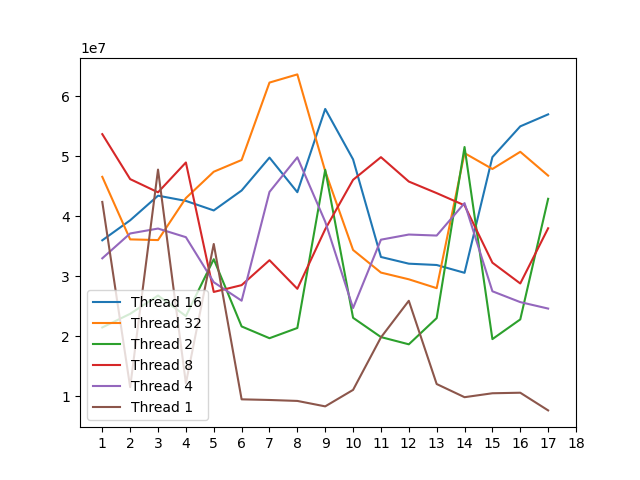
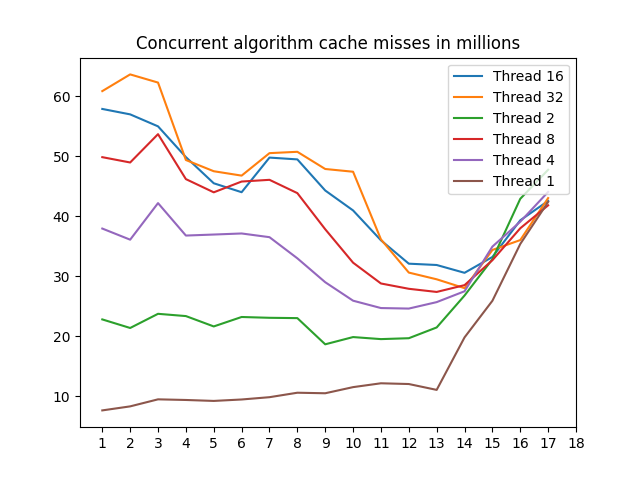
Fix cache misses graph

diff --git a/handin_2/datalogs/main.py b/handin_2/datalogs/main.py
@@ -48,67 +48,51 @@ for d in DIRS:
         if stats[len(stats) - 1].strip() == CACHE_MISSES_ACRO:
             stats = lines_arr[idx + 1].split()
             cache_miss = int(stats[len(stats) - 1].strip())
-            # print(cache_miss)
             data[meta_data].append(cache_miss)
 
     grep_in.close()
 
 x_ticks = HASH_BITS
+DIVIDE_FACTOR = 1_000_000
 
 algo_map = {}
 
 for key, cache_misses in data.items():
-    # print(f"{key}: {np.average(cache_misses)}")
     meta = key.split("-")
     algo = meta[0]
     thread = meta[1]
     hasbit = meta[2]
-    cache_miss_avg = np.average(cache_misses)
+    cache_miss_avg = np.average(cache_misses) / DIVIDE_FACTOR
     my_key = algo + "-" + thread
     if algo_map.get(my_key) is None:
         algo_map[my_key] = []    
-    algo_map[my_key].append(cache_miss_avg)
-
-    # plt.plot(x_ticks, cache_miss)
-    # plt.xticks(x_ticks)
-
-# plt.savefig("here.png")
-    
-
-
-# plot
-my_max = 0
+    algo_map[my_key].append((int(hasbit), cache_miss_avg))
 
 for a_t, h_avg in algo_map.items():
-    try:
-        meta = a_t.split("-")
-        alg = meta[0]
-        thread = meta[1]
-        print(len(h_avg))
-        print(len(x_ticks))
-        # if(len(h_avg) != len(x_ticks)):
-        #     print("skip", a_t)
-        #     continue
-        if alg == "concurrent":
-            print("IS OTSSSS")
-            plt.figure(0)
-        else: 
-            print("sssS")
-            plt.figure(1)
-        plt.plot(x_ticks[:17], h_avg[:17], label=f"Thread {thread}")
-        plt.xticks(x_ticks)
-        plt.legend()
-        my_max = np.max(h_avg)
+    meta = a_t.split("-")
+    alg = meta[0]
+    thread = meta[1]
+    # if(len(h_avg) != len(x_ticks)):
+    #     print("skip", a_t)
+    #     continue
+    if alg == "concurrent":
+        plt.figure(0)
+    else: 
+        plt.figure(1)
+    # sort by hasbit
+    h_avg.sort(key=lambda a: a[0])
+    data = list(map(lambda x: x[1], h_avg))
+    plt.plot(x_ticks[:17], data[:17], label=f"Thread {thread}")
+    plt.xticks(x_ticks)
+    plt.legend()
+    ax = plt.gca()
+    ax.get_xaxis().get_major_formatter().set_useOffset(False)
 
-        # print(f"{a_t}: \nmax: {np.max(h_avg)}, \nmin: {np.min(h_avg)}, \nmid: {np.median(h_avg)}\n\n")
-        # plt.yticks([1_000_000,5_000_000, 10_000_000, 20_000_000, 30_000_000,40_000_000,50_000_000, 100_000_000, 200_000_000])
-        ax = plt.gca()
-        ax.get_xaxis().get_major_formatter().set_useOffset(False)
-    except:
-        pass
 
 plt.figure(0)
-plt.savefig(f"concurrent.png")
+plt.title("Concurrent algorithm cache misses in millions")
+plt.savefig("concurrent.png")
 plt.figure(1)
-plt.savefig(f"parallel.png")
+plt.title("Parallel algorithm cache misses in millions")
+plt.savefig("parallel.png")
     

diff --git a/handin_1/perf/main.py b/handin_1/perf/main.py
@@ -45,7 +45,7 @@ for key, val in stats.items():
     algo = meta[0]
     thread = meta[1]
     name = meta[3]
-    avg = np.mean(val)
+    avg = np.mean(val) 
     new_key = f"{algo}/{thread}/{name}"
     if data_map.get(new_key) is None:
         data_map[new_key] = []   
